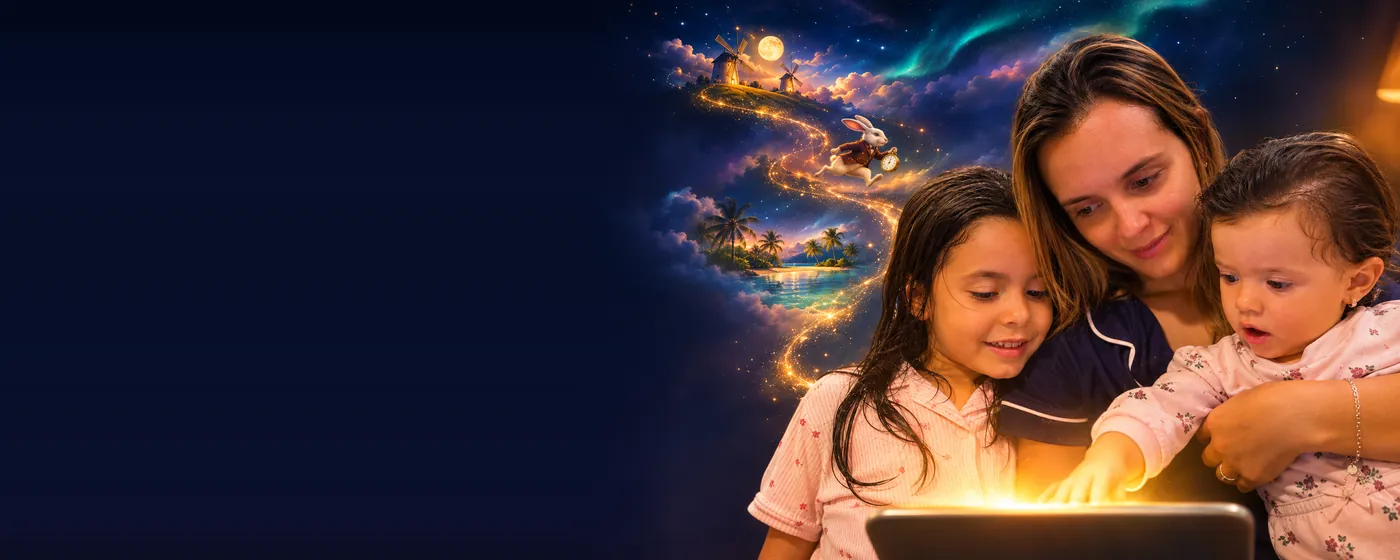
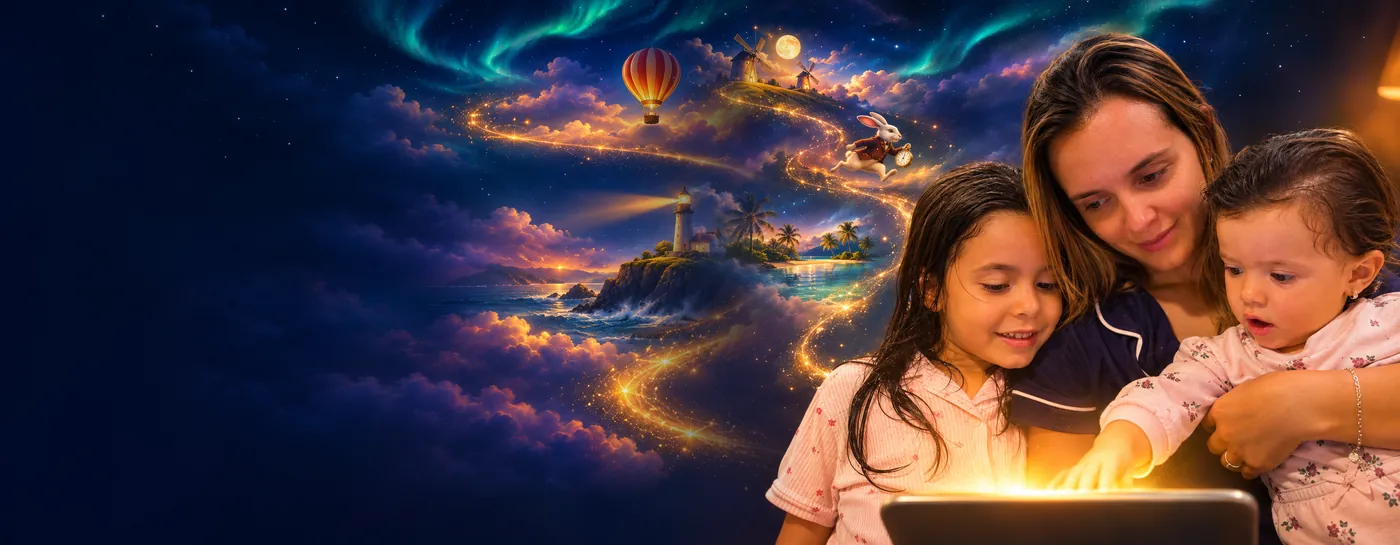
Landing: fundo do rodapé estendido com farol e balão (#146)
O fundo pintado (feito à parte, sem pessoas) entra à esquerda da foto, emendado por
uma faixa de 440 px em que as luzes das duas imagens se somam. Imagem final 2632x1024.

Claude-Session: https://claude.ai/code/session_01KvAZ7XPPHCjHbd3L7L9vJR

diff --git a/landing/index.html b/landing/index.html
@@ -807,7 +807,7 @@ details[open] summary::after{transform:rotate(180deg)}
 </section>
 
 <footer class="final">
-  <img loading="lazy" decoding="async" width="2560" height="1024" src="../images/hero/rodape-familia.webp" srcset="../images/hero/rodape-familia-1200.webp 1400w, ../images/hero/rodape-familia.webp 2560w" sizes="100vw" alt="Mãe e duas filhas lendo juntas no tablet à noite; da tela sobe um rio de luz com moinhos, um coelho com relógio e uma lagoa com palmeiras">
+  <img loading="lazy" decoding="async" width="2632" height="1024" src="../images/hero/rodape-familia.webp?v=2" srcset="../images/hero/rodape-familia-1200.webp?v=2 1400w, ../images/hero/rodape-familia.webp?v=2 2632w" sizes="100vw" alt="Mãe e duas filhas lendo juntas no tablet à noite; da tela sobe um rio de luz com moinhos, um coelho com relógio, uma lagoa com palmeiras, um farol e um balão">
   <div class="txt">
     <h2>Escolham a história de hoje à noite</h2>
     <p class="lead">R$ 19,90 por mês, para a família inteira.</p>
